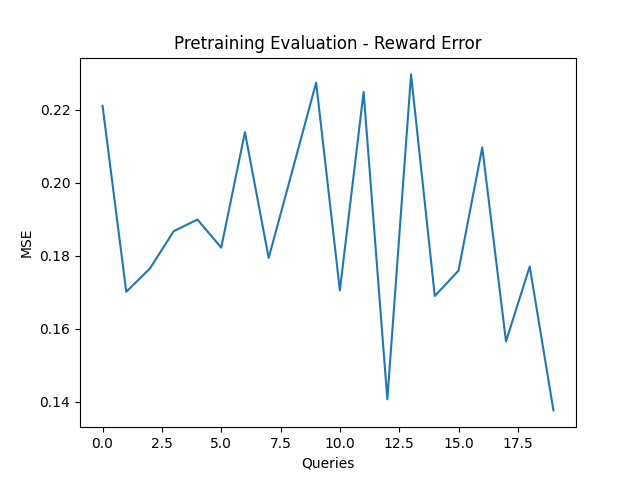
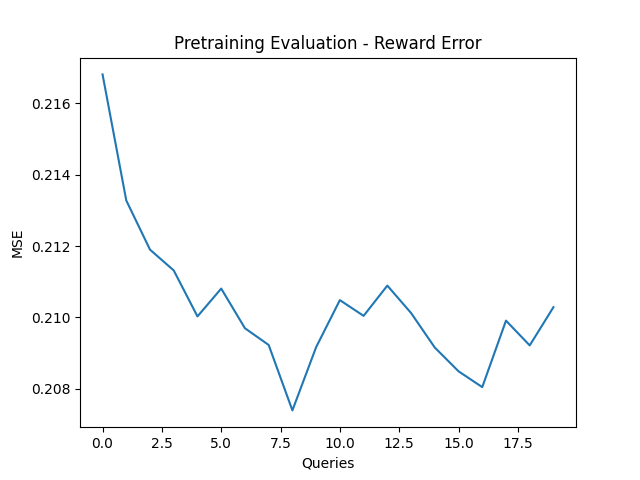
print gradient path

diff --git a/learner.py b/learner.py
@@ -106,6 +106,24 @@ class Learner:
             assert loss.shape == ()
 
             loss.backward()
+
+
+            def getBack(var_grad_fn):
+                print(var_grad_fn)
+                for n in var_grad_fn.next_functions:
+                    if n[0]:
+                        try:
+                            tensor = getattr(n[0], 'variable')
+                            print(n[0])
+                            print('Tensor with grad found:', tensor)
+                            print(' - gradient:', tensor.grad)
+                            print()
+                        except AttributeError as e:
+                            getBack(n[0])
+            getBack(loss.grad_fn)
+
+            assert 1 == 0
+
             self.optimizer.step()
 
             if self.args.verbose and (i+1) % 100 == 0:

diff --git a/models/belief.py b/models/belief.py
@@ -21,10 +21,11 @@ class Belief(nn.Module):
         self.fc_logvar = nn.Linear(curr, args.num_features)
 
     def reparameterize(self, mu, logvar):
-        std = torch.exp(0.5*logvar)
-        eps = torch.randn_like(std)
-        belief = eps.mul(std).add_(mu)
-        belief = belief / torch.linalg.norm(belief, dim=-1).unsqueeze(-1)
+        #std = torch.exp(0.5*logvar)
+        #eps = torch.randn_like(std)
+        #belief = eps.mul(std).add_(mu)
+        #belief = belief / torch.linalg.norm(belief, dim=-1).unsqueeze(-1)
+        belief = mu / torch.linalg.norm(mu, dim=-1).unsqueeze(-1)
         return belief
 
     def forward(self, query):
